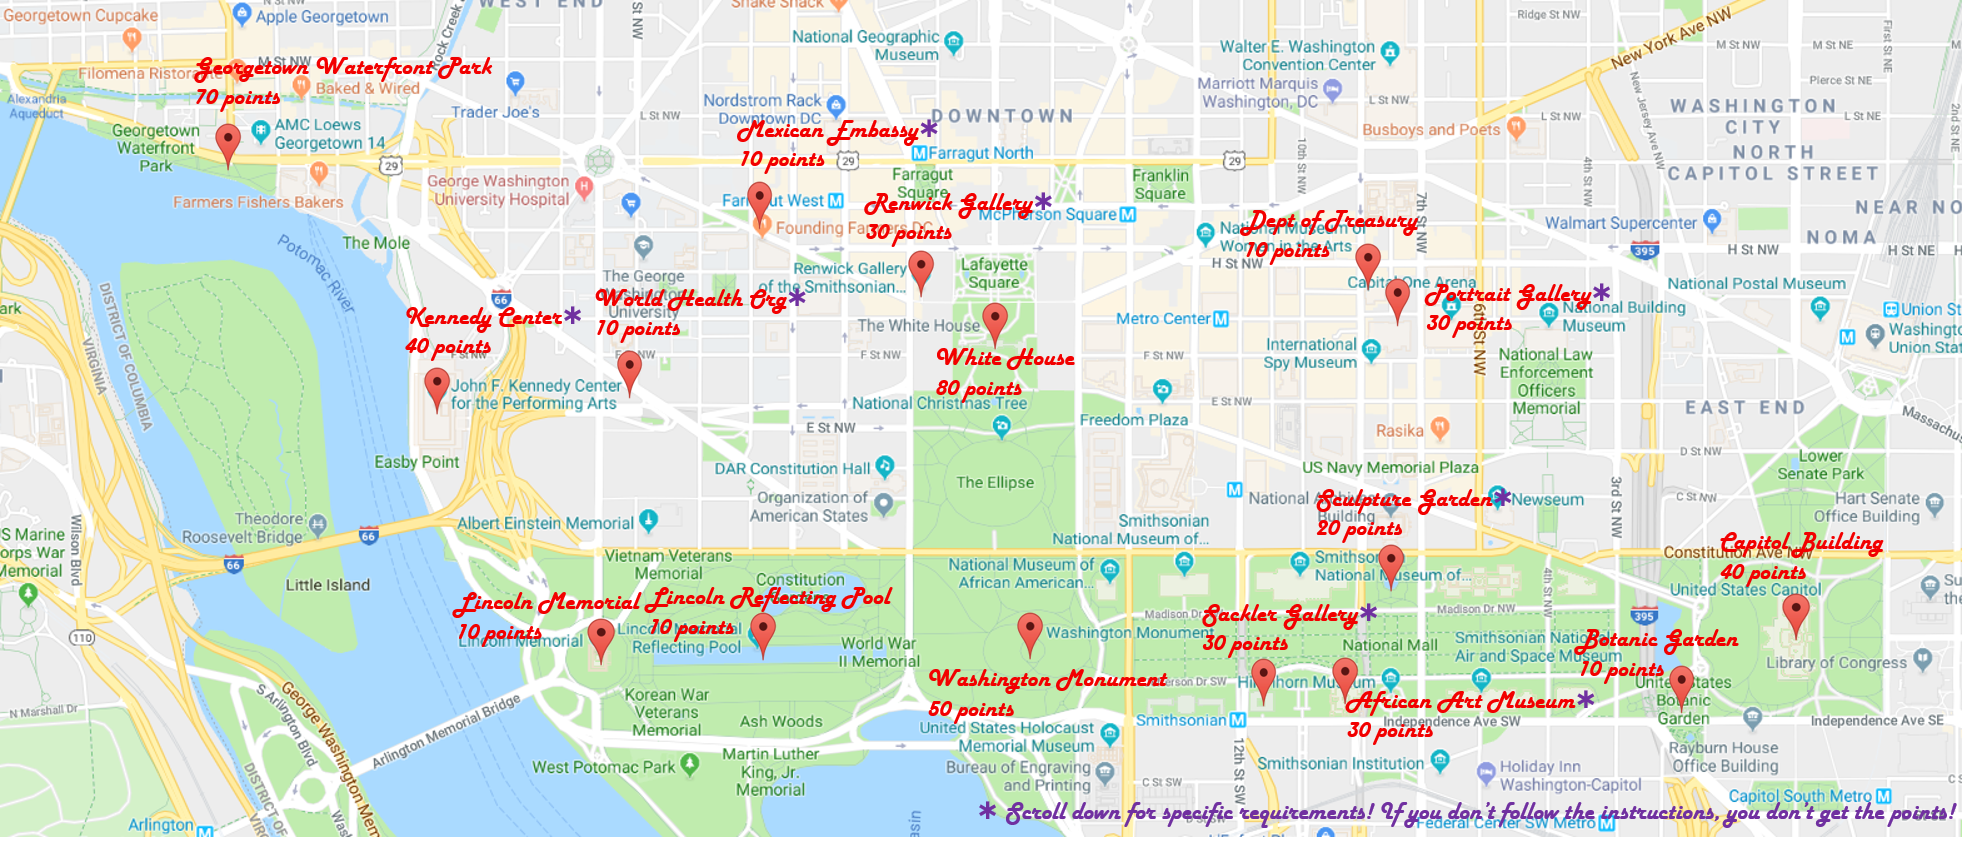
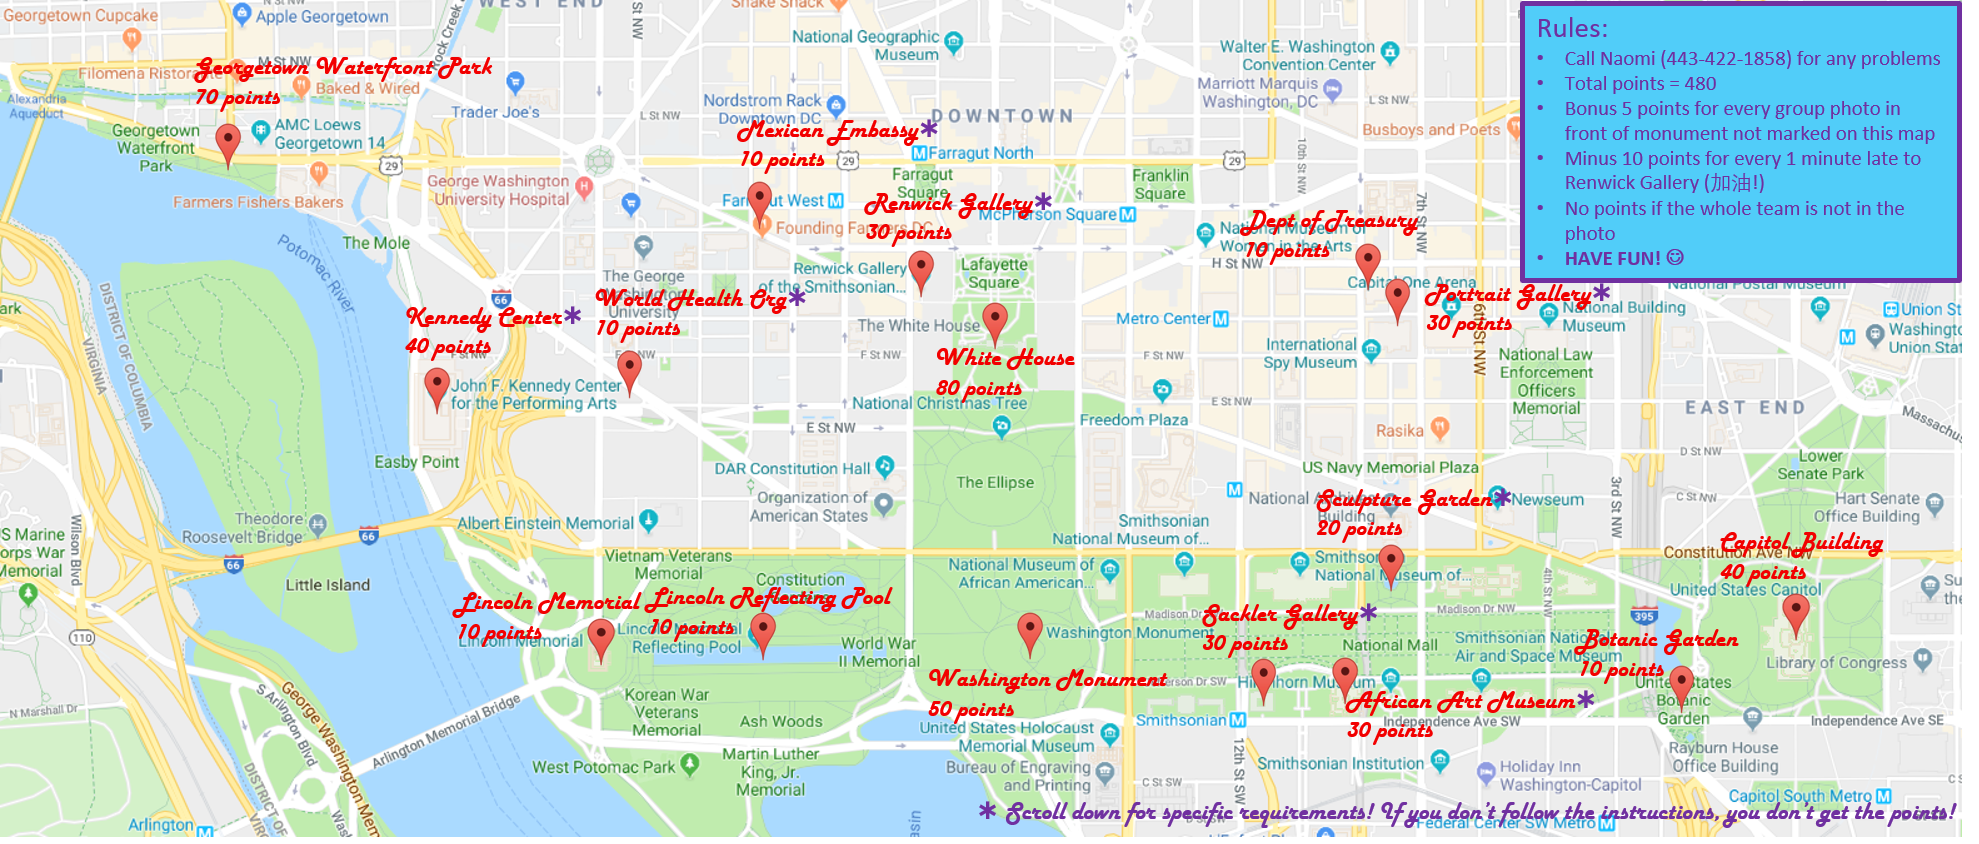
update map

Changed region(s): [[0.7706, 0.0, 1.0, 0.3389]]

diff --git a/map2.html b/map2.html
@@ -148,7 +148,7 @@
     </div>
 
     <h1>
-        Remember: All team members must be in each photo, and make sure you're on time to Renwick at 5:00. Every minute late is 5 points off your total! Good luck! </h1>
+        Remember: All team members must be in each photo, and make sure you're on time to Renwick at 5:00. Every minute late is 10 points off your total! Good luck! </h1>
     <br>
     <h1 class="info"> <a href="groupphotos.html" target="_blank" rel="noopener">Upload your team photos and see everyone's progress as you go here</a></h1>
     <br>
